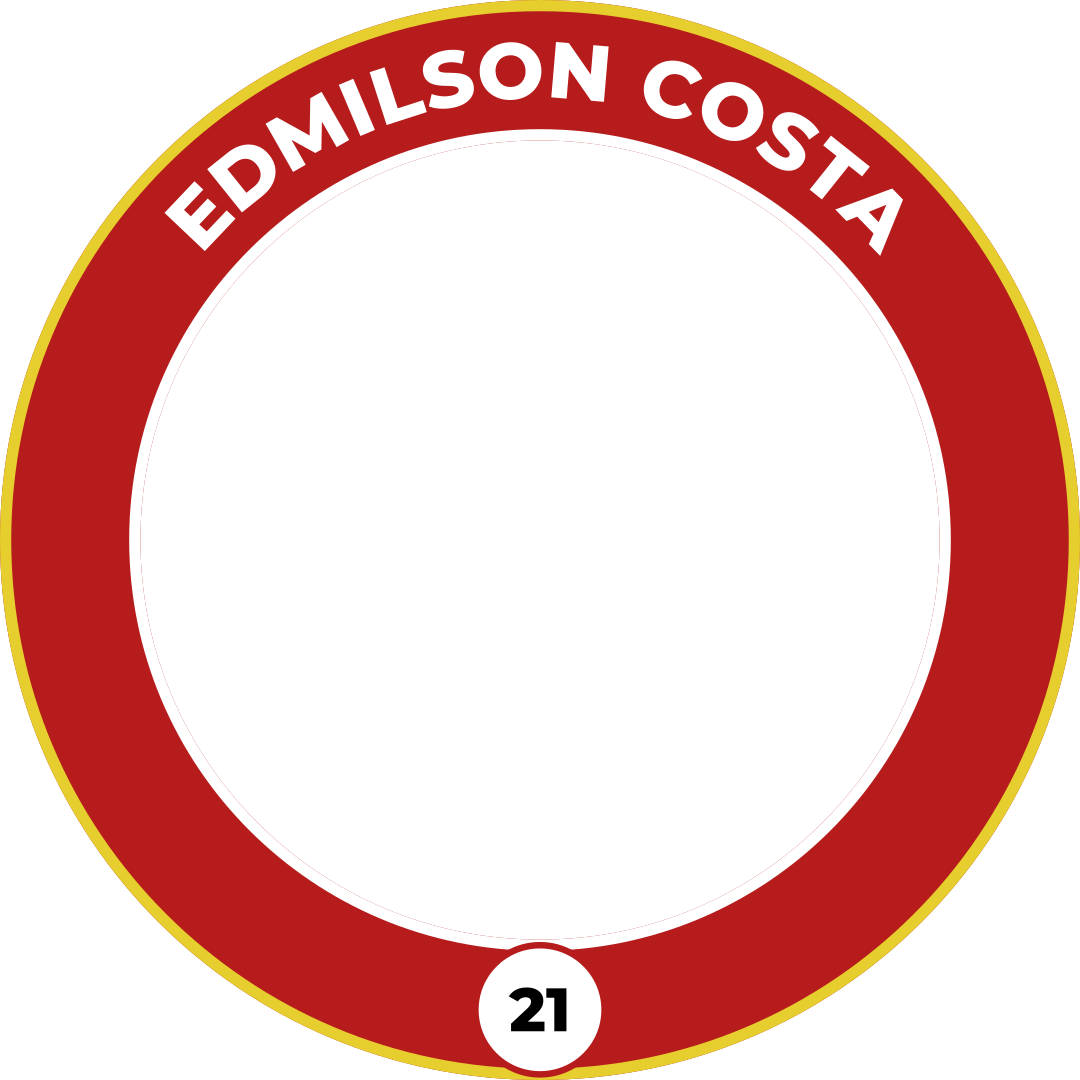
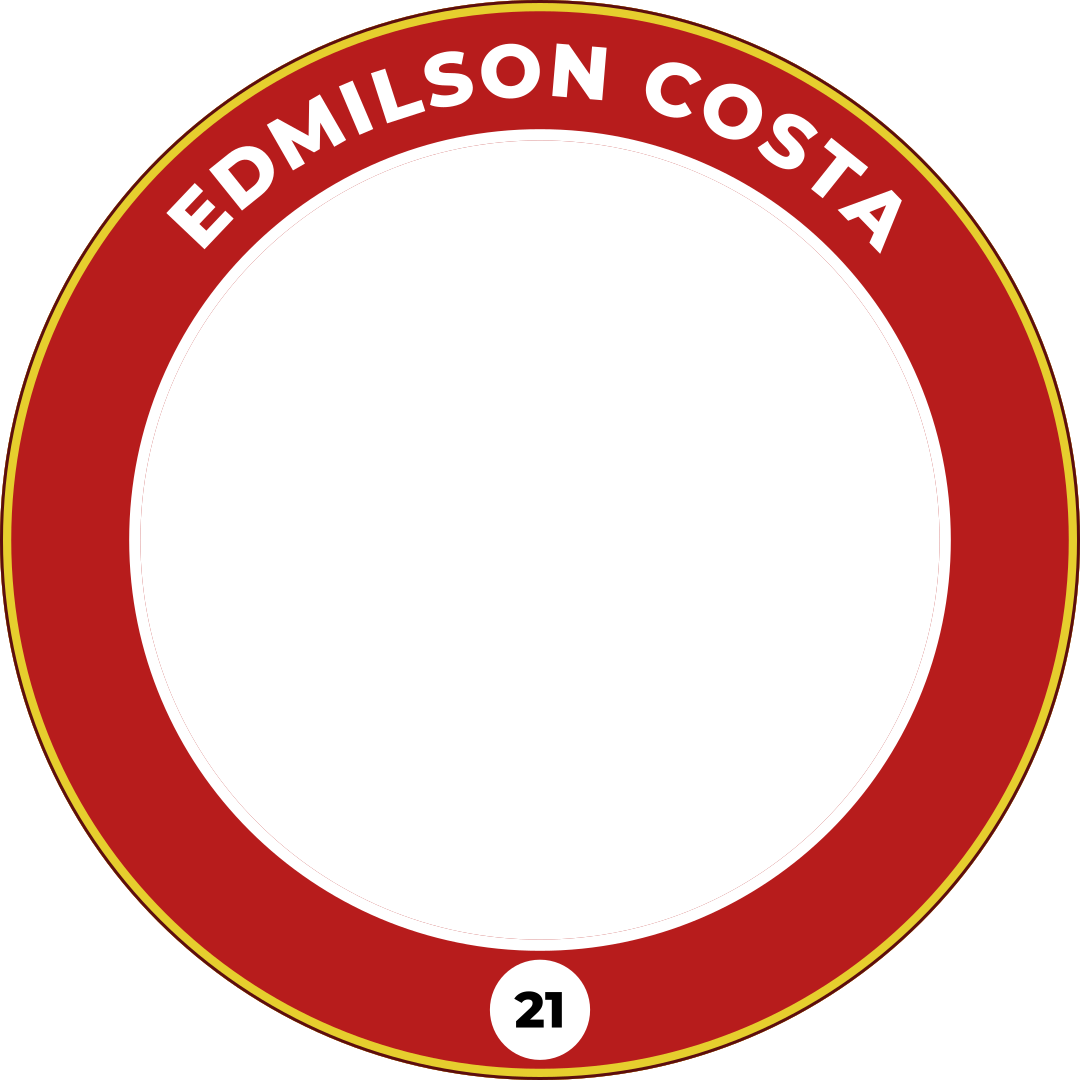
fix(frames): badge menor, espacamento, contorno externo e erro de glifo ausente

diff --git a/api/src/scripts/placeholder-frame.ts b/api/src/scripts/placeholder-frame.ts
@@ -8,7 +8,10 @@ import type { Candidate } from "@moldura/common";
 
 const FONT_URL = new URL("../../assets/fonts/montserrat-latin-800-normal.woff", import.meta.url);
 const MAX_ARC_DEGREES = 100;
-const LETTER_SPACING = 0.05;
+const LETTER_SPACING = 0.09;
+const ACCENT_HEIGHT = 0.95;
+const GLYPH_TOP_LIMIT = 524;
+const OUTLINE_WIDTH = 3;
 const CAP_HEIGHT = 0.7;
 
 let cachedFont: Font | undefined;
@@ -50,14 +53,22 @@ function bestTextColor(background: string, options: string[]): string {
   return [...options].sort((first, second) => contrast(second, background) - contrast(first, background))[0];
 }
 
+function darken(hex: string, amount: number): string {
+  const channels = [1, 3, 5].map((index) => Math.round(Number.parseInt(hex.slice(index, index + 2), 16) * (1 - amount)));
+
+  return `#${channels.map((value) => value.toString(16).padStart(2, "0")).join("")}`;
+}
+
 function round(value: number): number {
   return Math.round(value * 100) / 100;
 }
 
 // Texto em arco, glifo a glifo, como caminhos SVG (sem <text>): independe de fontes do sistema.
 // Centrado no topo do anel; encolhe para caber em MAX_ARC_DEGREES sem cortar.
-function arcText(text: string, center: number, radius: number, maxFontSize: number, fill: string): string {
+function arcText(text: string, center: number, radius: number, requestedFontSize: number, fill: string): string {
   const font = loadFont();
+  const topFactor = /[^A-Z0-9 ]/.test(text) ? ACCENT_HEIGHT - CAP_HEIGHT / 2 : CAP_HEIGHT / 2;
+  const maxFontSize = Math.min(requestedFontSize, (GLYPH_TOP_LIMIT - radius) / topFactor);
   const characters = [...text];
   const maxArc = (MAX_ARC_DEGREES * Math.PI * radius) / 180;
   const widthAt = (fontSize: number) => characters.reduce((sum, character) => sum + font.getAdvanceWidth(character, fontSize) + fontSize * LETTER_SPACING, 0);
@@ -95,6 +106,12 @@ function centeredText(text: string, x: number, y: number, fontSize: number, fill
 }
 
 export function buildFrameSvg(candidate: Candidate): string {
+  const missing = missingGlyphs(candidate.frameName + candidate.number);
+
+  if (missing.length > 0) {
+    throw new Error(`A fonte da moldura não tem glifo para: ${missing.join(" ")} (${candidate.id})`);
+  }
+
   const size = FRAME_SIZE;
   const center = size / 2;
   const ring = size * FRAME_RING_RATIO;
@@ -102,7 +119,8 @@ export function buildFrameSvg(candidate: Candidate): string {
   const middle = inner + ring / 2;
   const [main, second, third] = candidate.colors;
   const band = ring * 0.08;
-  const badgeRadius = ring * 0.46;
+  const badgeRadius = ring * 0.38;
+  const outline = darken(main, 0.5);
   const badgeY = center + middle;
   const nameColor = bestTextColor(main, [second, third, "#ffffff", "#000000"]);
   const badgeFill = bestTextColor(main, [second, third]);
@@ -112,7 +130,8 @@ export function buildFrameSvg(candidate: Candidate): string {
     <circle cx="${center}" cy="${center}" r="${middle}" fill="none" stroke="${main}" stroke-width="${ring}"/>
     <circle cx="${center}" cy="${center}" r="${center - band / 2}" fill="none" stroke="${second}" stroke-width="${band}"/>
     <circle cx="${center}" cy="${center}" r="${inner + band / 2}" fill="none" stroke="${third}" stroke-width="${band}"/>
-    ${arcText(candidate.frameName, center, middle, ring * 0.78, nameColor)}
+    <circle cx="${center}" cy="${center}" r="${center - OUTLINE_WIDTH / 2}" fill="none" stroke="${outline}" stroke-width="${OUTLINE_WIDTH}"/>
+    ${arcText(candidate.frameName, center, middle, ring * 0.55, nameColor)}
     <circle cx="${center}" cy="${badgeY}" r="${badgeRadius}" fill="${badgeFill}" stroke="${main}" stroke-width="${size * 0.006}"/>
     ${centeredText(candidate.number, center, badgeY, badgeRadius * 0.95, numberColor)}
   </svg>`;

diff --git a/api/src/scripts/frames.check.ts b/api/src/scripts/frames.check.ts
@@ -29,6 +29,30 @@ test("a fonte cobre todos os caracteres de frameName e número", () => {
   }
 });
 
+test("buildFrameSvg falha com erro claro quando a fonte não cobre um caractere", () => {
+  const broken = { ...CANDIDATES[0], frameName: "LULA 漢" };
+
+  assert.throws(() => buildFrameSvg(broken), /glifo/);
+});
+
+test("a moldura tem contorno escuro fino na borda externa, mesmo com faixa externa branca", async () => {
+  const lula = CANDIDATES.find((candidate) => candidate.id === "lula");
+
+  assert.ok(lula);
+
+  const png = await renderPlaceholderFrame(lula);
+  const { data, info } = await (await import("sharp")).default(png).ensureAlpha().raw().toBuffer({ resolveWithObject: true });
+  const pixel = (x: number, y: number) => {
+    const index = (y * info.width + x) * 4;
+
+    return { r: data[index], g: data[index + 1], b: data[index + 2], a: data[index + 3] };
+  };
+  const edge = pixel(540, 1);
+
+  assert.equal(edge.a, 255);
+  assert.ok(edge.r + edge.g + edge.b < 400, "borda externa precisa ser escura");
+});
+
 test("o validador acusa moldura com disco central parcialmente opaco", async () => {
   const sharp = (await import("sharp")).default;
   const png = await renderPlaceholderFrame(CANDIDATES[0]);

diff --git a/common/src/common.check.ts b/common/src/common.check.ts
@@ -91,7 +91,7 @@ test("todo candidato tem partido existente e cores válidas derivadas do partido
 });
 
 test("partidos: siglas e números únicos, hex válidos e contraste mínimo entre as três cores", () => {
-  assert.ok(PARTIES.length >= 28);
+  assert.equal(PARTIES.length, 29);
   assert.equal(new Set(PARTIES.map((party) => party.acronym)).size, PARTIES.length);
   assert.equal(new Set(PARTIES.map((party) => party.number)).size, PARTIES.length);
 

diff --git a/README.md b/README.md
@@ -32,7 +32,7 @@ Os arquivos públicos `/frames/<id>.png` (servidos pelo web) são as molduras **
 
 ### Fonte das molduras
 
-O texto das molduras usa a Montserrat ExtraBold (subconjunto latin, `api/assets/fonts/montserrat-latin-800-normal.woff`, obtida do pacote npm `@fontsource/montserrat`), licenciada sob a SIL Open Font License 1.1; o texto da licença está em `api/assets/fonts/Montserrat-OFL.txt`. O `opentype.js` (devDependency da api) converte os glifos em caminhos SVG.
+O texto das molduras usa a Montserrat ExtraBold (subconjunto latin, `api/assets/fonts/montserrat-latin-800-normal.woff`, extraída do pacote npm `@fontsource/montserrat`, que não é dependência do projeto), licenciada sob a SIL Open Font License 1.1; o texto da licença está em `api/assets/fonts/Montserrat-OFL.txt`. O `opentype.js` (devDependency da api) converte os glifos em caminhos SVG.
 
 ## AbacatePay
 
